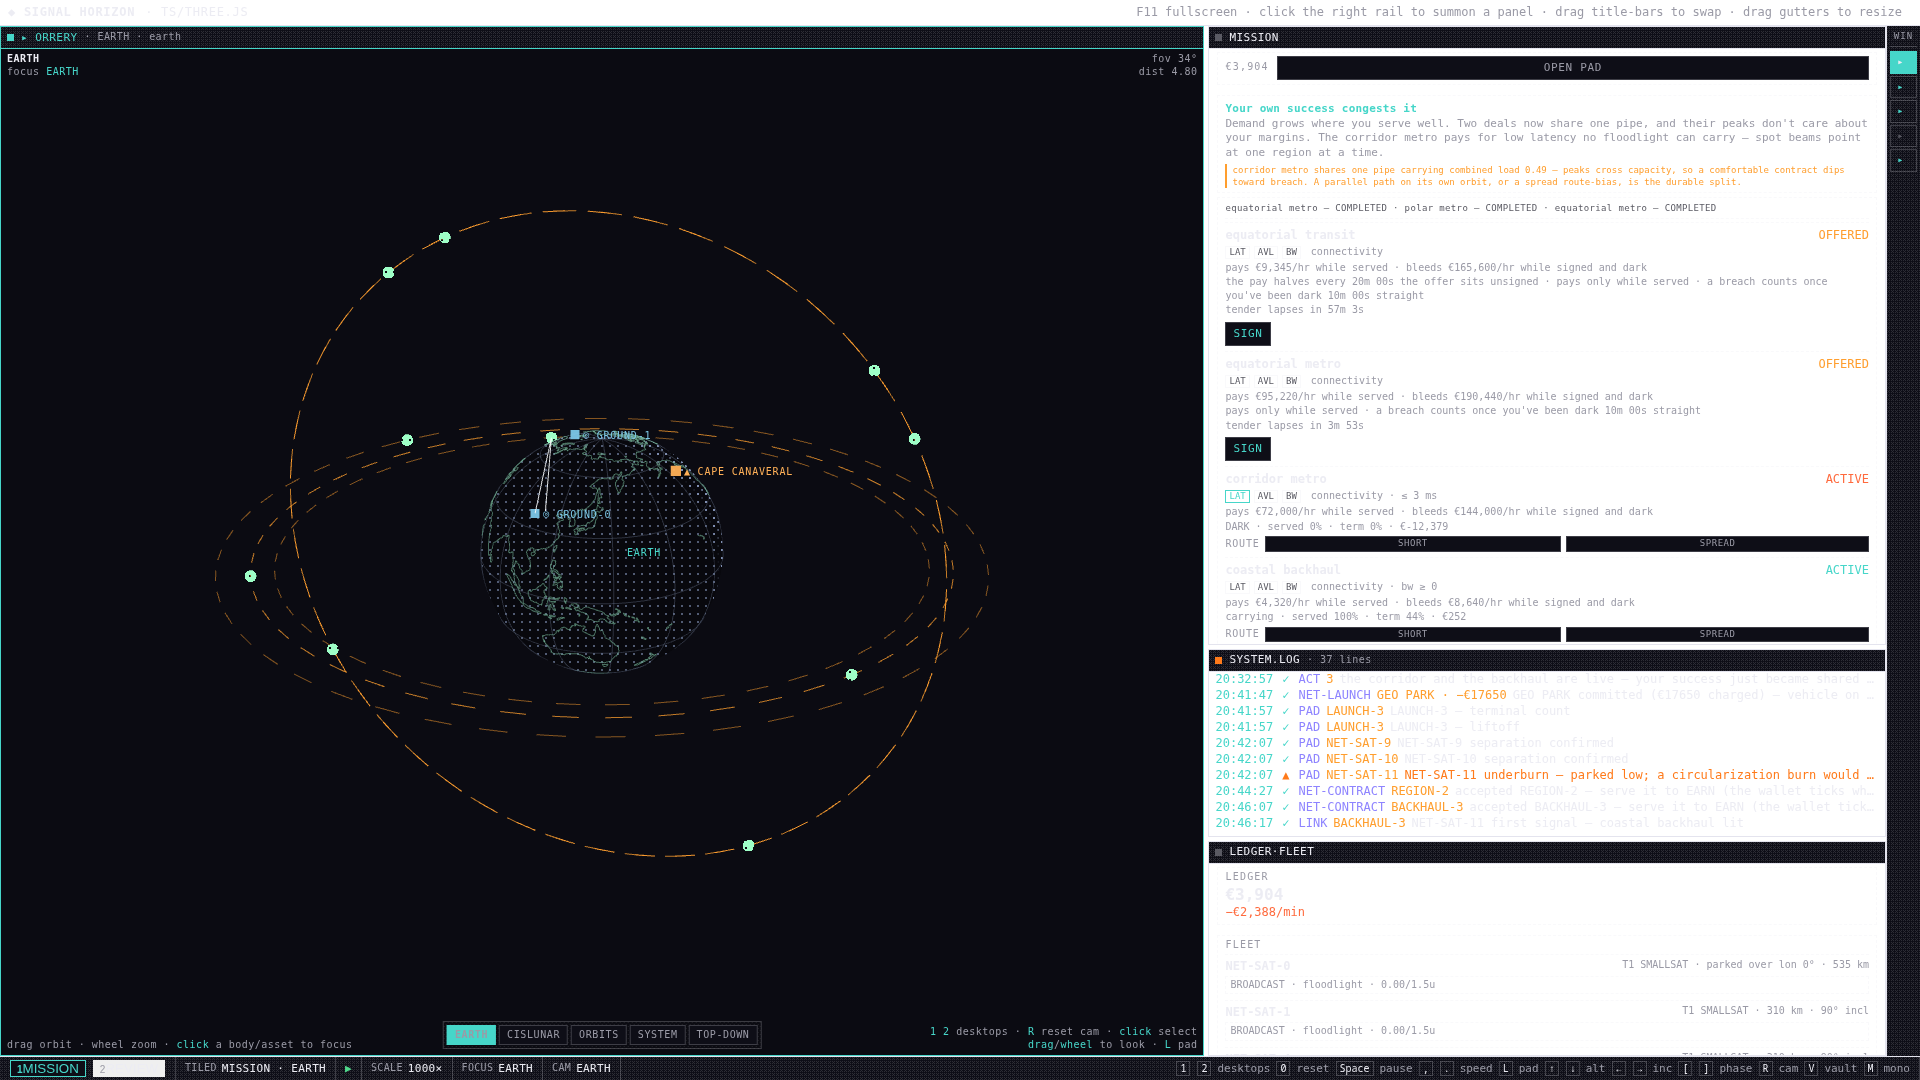
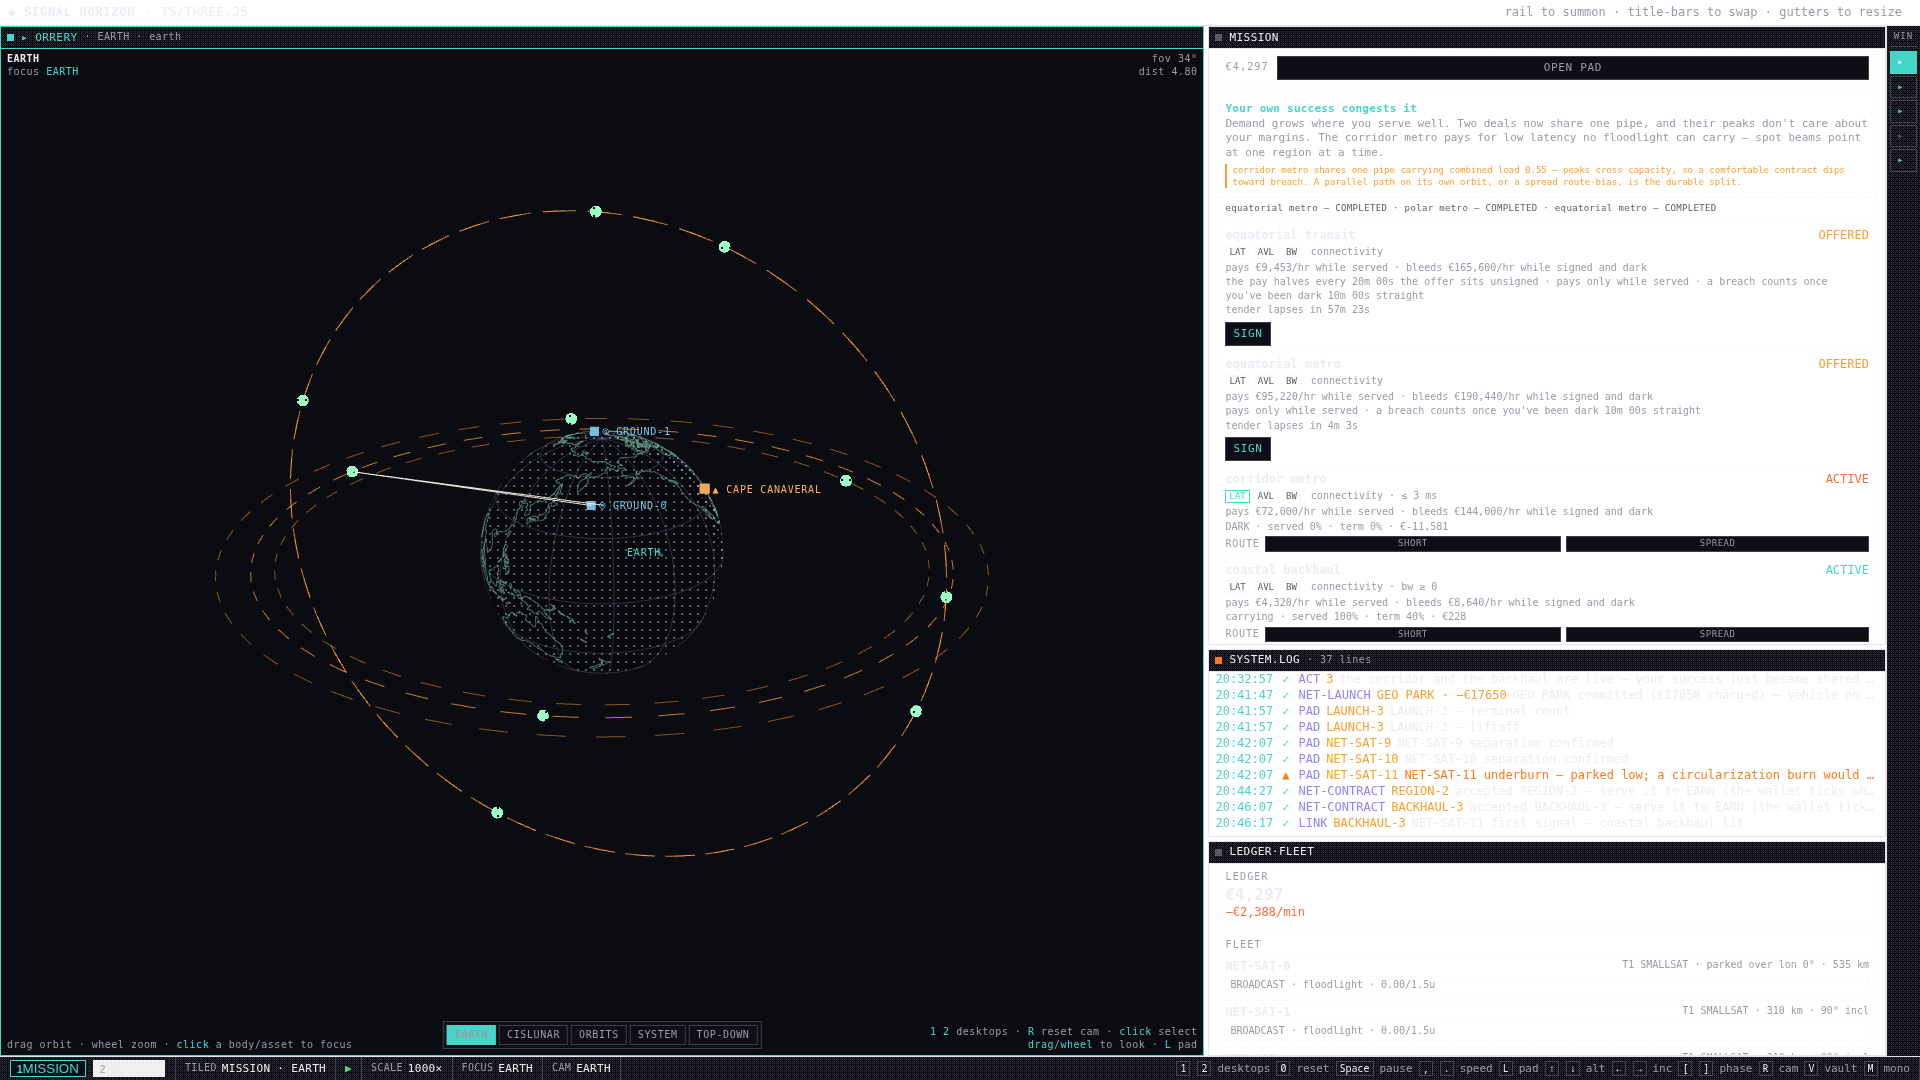
parse: THE ONE NUMBERS — serve-share + net wallet flow on the net REVIEW (§4.12's grinder readout)

Changed region(s): [[0.25, 0.3972, 0.4062, 0.6111], [0.8125, 0.0, 0.8438, 0.0306], [0.75, 0.0, 0.7812, 0.0306]]

diff --git a/src/panels/parse.ts b/src/panels/parse.ts
@@ -270,6 +270,10 @@ export interface NetReview {
   contracts: NetReviewContract[];
   /** Fleet totals. */
   satCount: number;
+  /** §4.12 — the GROUND TRUTH numbers: serve-share (signed-world lit share; coarse — carried
+   * from the terms' own accums) + the NET FLOW the hour's run wrote (closing vs opening). */
+  serveShare: number;
+  walletFlowEur: number;
   /** Witness flags: what the run demonstrably SHOWED. */
   escalated: boolean;
   reTamed: boolean;
@@ -321,6 +325,24 @@ export function renderNetReview(panel: ParsePanel, v: NetReview): void {
     cg.appendChild(line);
   }
   body.appendChild(cg);
+
+  // §4.12 — THE ONE NUMBER(S) to grind: served share (how often the signed world was lit) +
+  // capex efficiency (each € deployed earned X back). Facts, never verdicts.
+  const one = group("THE ONE NUMBERS");
+  const r1 = el("div", "row");
+  r1.append(el("span", "label", "SERVE UPTIME — tender-seconds lit"));
+  const v1 = el("span", "v" + (v.serveShare >= 0.8 ? " green" : v.serveShare >= 0.5 ? " cyan" : ""));
+  v1.textContent = `${Math.round(v.serveShare * 100)}%`;
+  r1.append(v1);
+  one.appendChild(r1);
+  const r2 = el("div", "row");
+  r2.append(el("span", "label", "NET FLOW — wallet vs opening"));
+    const net = v.walletFlowEur; // the FLOW, honest.
+  const v2 = el("span", "v" + (net > 0 ? " green" : ""));
+  v2.textContent = `${net >= 0 ? "+" : "−"}€${Math.abs(Math.round(net)).toLocaleString("en-US")}`;
+  r2.append(v2);
+  one.appendChild(r2);
+  body.appendChild(one);
 
   // WHAT THE RUN SHOWED — the witnessed concepts (the acts are state, this is the record).
   const wg = group("WHAT THE RUN SHOWED");

diff --git a/src/main.ts b/src/main.ts
@@ -3113,9 +3113,23 @@ function refreshParse(force = false): void {
       netSession.contracts.map((c) => `${c.id}:${c.state}:${Math.round(c.earnedEur)}`).join("|")].join(";");
     if (!force && sig === lastNetParseSig) return;
     lastNetParseSig = sig;
+    // §4.12 — the two numbers: serve-share = Σ served-seconds over Σ ACTIVE sim-seconds of
+    // signalled tenders; capex = the open..now wallet fact: payroll costs are session-start
+    // anchored money spent (opening − balance when net-negative counts as capex+opex spent).
+    // Serve-share (coarse, no schema change): completed contracts ratio = served/term;
+    // actives read the INSTANT served fraction (legible + honest; the long-run history lives
+    // per-row in the account book's "on-air" seconds).
+    const shareParts: number[] = [];
+    for (const c of netSession.contracts) {
+      if (c.state === "completed") shareParts.push(c.termSeconds > 0 ? Math.min(1, c.servedSecondsAccum / c.termSeconds) : 1);
+      else if (c.state === "active") shareParts.push(Math.min(1, c.lastServedFraction));
+    }
+    const serveShare = shareParts.length > 0 ? shareParts.reduce((a, b) => a + b, 0) / shareParts.length : 0;
     renderNetReview(parse, {
       openingEur: NET_OPENING_BALANCE,
       balanceEur: netSession.balance,
+      serveShare,
+      walletFlowEur: netSession.balance - NET_OPENING_BALANCE,
       // NET sim-time is mission-ELAPSED: lastStepS is the session's stepped clock, and it
       // shares the boot ephemeris epoch — so subtract the act-1 emit time (the opener's
       // offeredAtS, the session's own t0) for a legible "how long have I been running".
